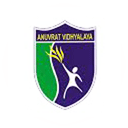
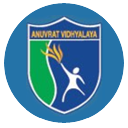
ASD
ASD

diff --git a/www/css/jquery.mobile-1.4.5.min.css b/www/css/jquery.mobile-1.4.5.min.css
@@ -28,7 +28,7 @@ src: local('Futura Md BT Medium'), url('futura_medium_bt-webfont.woff') format('
   background-repeat:no-repeat;
   background-position:right 10px center; 
   border: none; 
-  background-color: #ce0815;
+  background-color: #000080;
   color: #FFF;  
 	-webkit-box-shadow: rgba(0,0,0,0.8) 0px 0 10px; 
 	-moz-box-shadow: rgba(0,0,0,0.8) 0 0 10px;
@@ -44,7 +44,7 @@ src: local('Futura Md BT Medium'), url('futura_medium_bt-webfont.woff') format('
 .ui-body-f { 
   height:40px;  
   border: none; 
-  background-color: #ce0815;
+  background-color: #000080;
   color: #FFF;  
 	-webkit-box-shadow: rgba(0,0,0,0.8) 0px 0 10px; 
 	-moz-box-shadow: rgba(0,0,0,0.8) 0 0 10px;
@@ -53,10 +53,10 @@ src: local('Futura Md BT Medium'), url('futura_medium_bt-webfont.woff') format('
 
 .ui-page-theme-f {
     font-weight: bold;
-    /* background-color: #ce0815; */ 
+    /* background-color: #000080; */ 
 }
 #login.ui-page-theme-f {
-    background-color: #ce0815;
+    background-color: #000080;
 }
 
 input#username{
@@ -190,7 +190,7 @@ body .ui-body-c, body .ui-overlay-c {
  
 .ui-grid-b .ui-block-a a, .ui-grid-b .ui-block-b a, .ui-grid-b .ui-block-c a, #axe { 
   	/* background: linear-gradient(to bottom, rgba(0, 0, 0, 1), rgba(0, 0, 0, 0)); */
-  	background-color: #ce0815;
+  	background-color: #000080;
   	border: none; 
   	color: #fff;
   	text-align: center;  
@@ -199,7 +199,7 @@ body .ui-body-c, body .ui-overlay-c {
   }
  .ui-grid-b .ui-block-a a:hover, .ui-grid-b .ui-block-b a:hover, .ui-grid-b .ui-block-c a:hover { 
   	/* background: linear-gradient(to bottom, rgba(0, 0, 0, 1), rgba(0, 0, 0, 0)); */
-  	background-color: #ce0815;
+  	background-color: #000080;
   	border: none; 
   	color: #fff;
   	text-align: center; 

diff --git a/www/index.html b/www/index.html
@@ -261,8 +261,8 @@
         <div data-role="content">
             <div class="head" style="text-align:center;">
                         <img src="css/images/round_logo_128x128.png" alt="School Logo"/> 
-                        <div role="main" style="color: #FFF;"><h3> Anuvrat Vidhyalaya </h3> </div>
-                        <div role="main" style="color: #FFF;"><h3> Kalanipakkam </h3> </div>
+                        <div role="main" style="color: #FFF;"><h3> ANUVRAT VIDHYALAYA</h3> </div>
+                        <div role="main" style="color: #FFF;"><h3> KALANIPAKKAM </h3> </div>
             </div>
             <form id="check-user"  data-ajax="false">
                 <div role="main" style="color: #FFF;text-align:center;"> <u> LOGIN HERE </u> </div>
